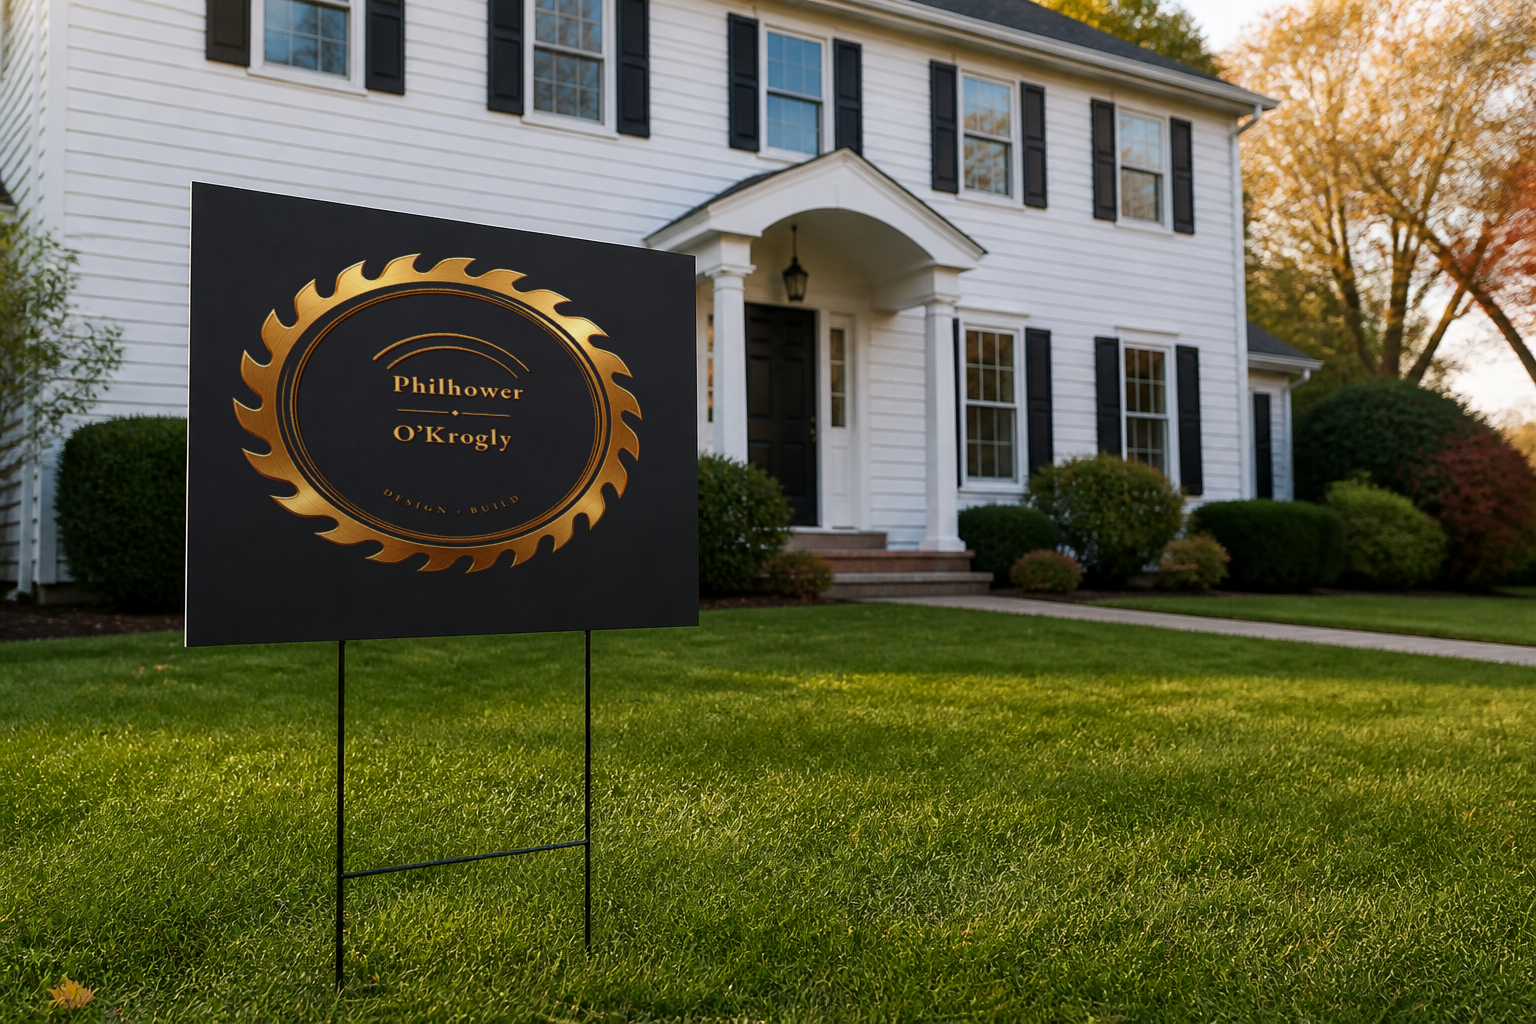
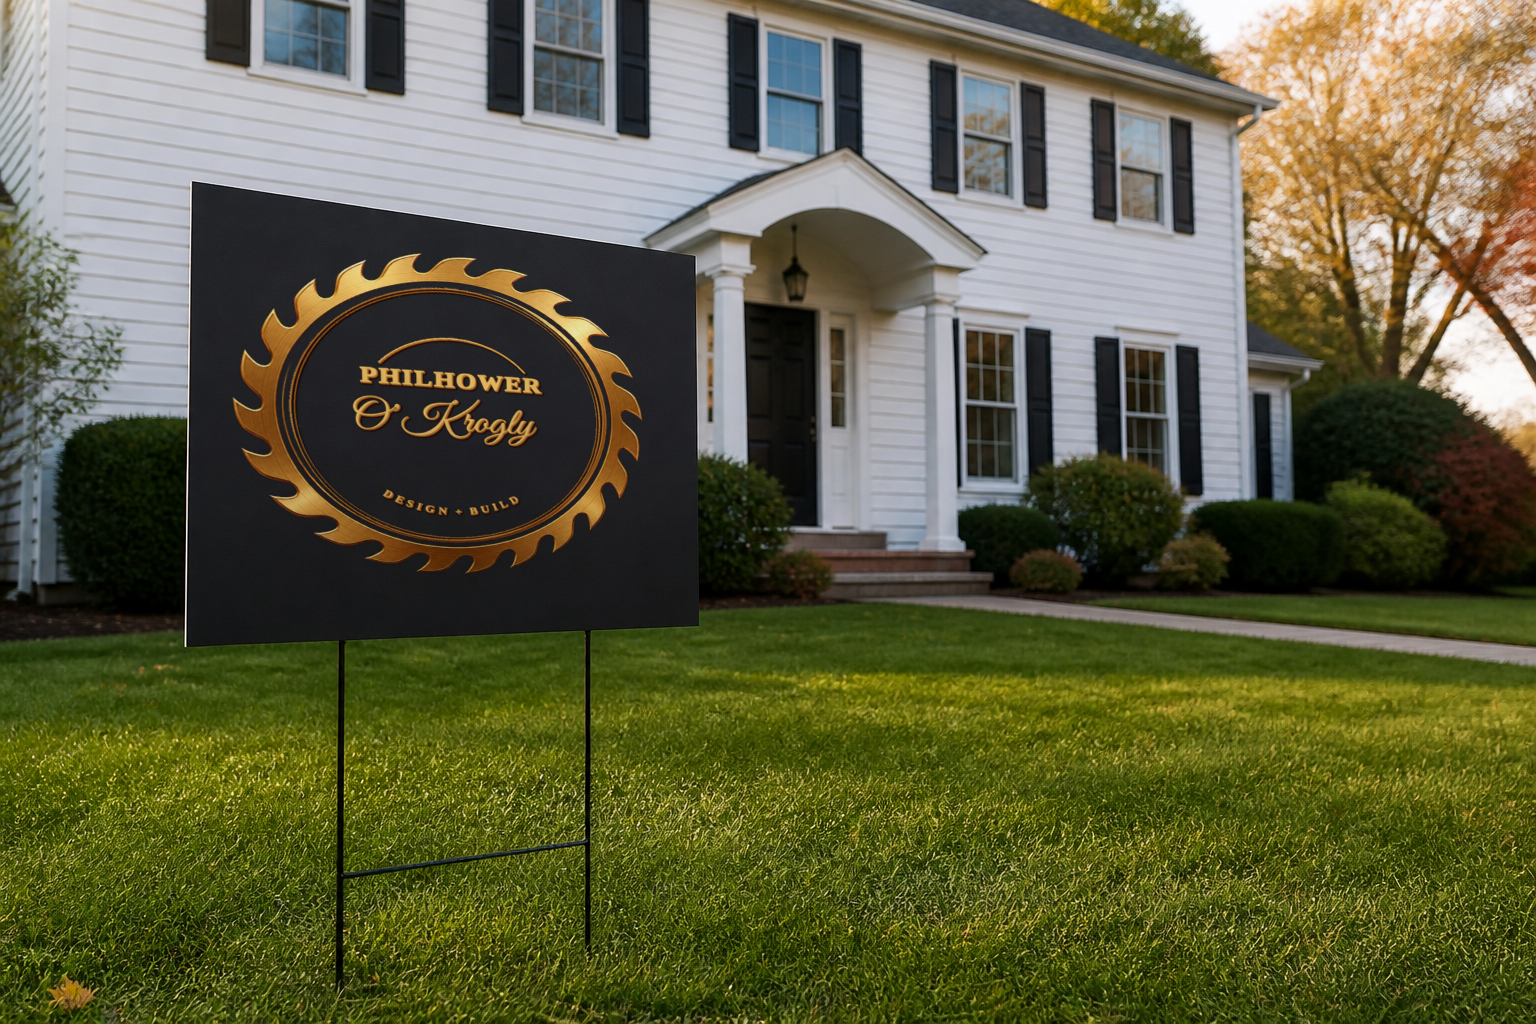
Match Philhower & O’Krogly to the Service The Hills seal.
Caps serif PHILHOWER, script O’Krogly, DESIGN + BUILD on the official
Hills blade. Theme 1.0.24 / brands-print-17.

diff --git a/dphilhower-studio-wp/preview/work/philhower-okrogly/index.html b/dphilhower-studio-wp/preview/work/philhower-okrogly/index.html
@@ -4,7 +4,7 @@
   <meta charset="utf-8">
   <meta name="viewport" content="width=device-width, initial-scale=1">
   <title>Philhower &amp; O’Krogly — D Philhower Studio</title>
-  <meta name="description" content="Philhower &amp; O’Krogly Design + Build by D Philhower Studio: old-style modern seal — Hills blade, Garamond names, DESIGN + BUILD.">
+  <meta name="description" content="Philhower &amp; O’Krogly Design + Build by D Philhower Studio: Service The Hills twin — PHILHOWER, O’Krogly script, DESIGN + BUILD.">
   <link rel="icon" href="../../img/favicon.svg" type="image/svg+xml">
   <link rel="preconnect" href="https://fonts.googleapis.com">
   <link rel="preconnect" href="https://fonts.gstatic.com" crossorigin>
@@ -31,7 +31,7 @@
       <p>Design + Build</p>
     </header>
     <div class="case-hero">
-      <img src="../../img/pok-hero.png" alt="Philhower &amp; O’Krogly old-style modern seal: Hills saw blade, Garamond names, engraved rule, DESIGN + BUILD" width="1536" height="1024">
+      <img src="../../img/pok-hero.png" alt="Philhower &amp; O’Krogly lockup matching Service The Hills: saw blade, PHILHOWER, script O’Krogly, DESIGN + BUILD" width="1536" height="1024">
     </div>
     <article class="case-body">
       <ul class="case-meta">
@@ -41,7 +41,7 @@
         <li><strong>Place</strong><br>Northern New Jersey</li>
       </ul>
       <div class="entry-content">
-        <p>Old-style, modern cut. Official Hills bronze blade, double ring, twin top arcs. Philhower and O’Krogly share one Garamond — same size, open tracking — split by a hairline and lozenge. DESIGN + BUILD on the bottom arc.</p>
+        <p>Same seal as Service The Hills: official bronze saw blade, double ring, top arc. PHILHOWER in caps serif. O’Krogly in script. DESIGN + BUILD on the bottom arc. Same metal, same hierarchy — different names.</p>
         <p>One lockup. Polo, van, yard, card, fridge. Black field so gold reads.</p>
       </div>
     </article>
@@ -56,7 +56,7 @@
         </figure>
         <figure>
           <img src="../../img/pok-print-shirt.png" alt="Black polo with the Philhower &amp; O’Krogly saw-blade lockup centered on the chest" width="1536" height="1024">
-          <figcaption><strong>Polo</strong> Center chest. Old-style modern seal — both names in Garamond.</figcaption>
+          <figcaption><strong>Polo</strong> Center chest. Same Hills blade hierarchy: PHILHOWER, O’Krogly, DESIGN + BUILD.</figcaption>
         </figure>
         <figure>
           <img src="../../img/pok-print-van.png" alt="Matte black van with the Philhower &amp; O’Krogly saw-blade lockup on the side" width="1536" height="1024">
@@ -68,7 +68,7 @@
         </figure>
         <figure>
           <img src="../../img/pok-print-card.png" alt="Black business cards with the Philhower &amp; O’Krogly saw-blade lockup" width="1536" height="1024">
-          <figcaption><strong>Cards</strong> Black stock. Blade and Garamond seal — same lockup as the shirt.</figcaption>
+          <figcaption><strong>Cards</strong> Black stock. Blade, PHILHOWER, O’Krogly, DESIGN + BUILD — same Hills hierarchy.</figcaption>
         </figure>
         <figure>
           <img src="../../img/pok-print-magnet.png" alt="Fridge magnet with the Philhower &amp; O’Krogly saw-blade lockup" width="1536" height="1024">

diff --git a/dphilhower-studio-wp/theme/dphilhower-studio/style.css b/dphilhower-studio-wp/theme/dphilhower-studio/style.css
@@ -4,7 +4,7 @@ Theme URI: https://dphilhower.com
 Author: D Philhower Studio
 Author URI: https://dphilhower.com
 Description: Custom graphic design studio theme for D Philhower Studio at dphilhower.com — portfolio, services, about, and project inquiries. Activate the theme to load demo pages and work samples.
-Version: 1.0.23
+Version: 1.0.24
 Requires at least: 6.4
 Tested up to: 6.8
 Requires PHP: 7.4

diff --git a/dphilhower-studio-wp/theme/dphilhower-studio/inc/brand-kits.php b/dphilhower-studio-wp/theme/dphilhower-studio/inc/brand-kits.php
@@ -289,7 +289,7 @@ function dps_brand_kits() {
 		'philhower-okrogly'        => array(
 			'label'  => __( 'Print system', 'dphilhower-studio' ),
 			'title'  => __( 'One lockup, five scales', 'dphilhower-studio' ),
-			'intro'  => __( 'Old-style, modern cut. Official Hills bronze blade, double ring, twin top arcs. Philhower and O’Krogly share one Garamond — same size, open tracking — split by a hairline and lozenge. DESIGN + BUILD on the bottom arc. Polo, van, yard, card, fridge — one lockup.', 'dphilhower-studio' ),
+			'intro'  => __( 'Same seal as Service The Hills: official bronze blade, double ring, top arc. Caps serif PHILHOWER, script O’Krogly, DESIGN + BUILD on the bottom arc. Polo, van, yard, card, fridge — one lockup.', 'dphilhower-studio' ),
 			'pieces' => array(
 				array(
 					'file'    => 'pok-seal-hero.png',
@@ -301,7 +301,7 @@ function dps_brand_kits() {
 					'file'    => 'pok-print-shirt.png',
 					'alt'     => __( 'Black polo with the Philhower & O’Krogly saw-blade lockup centered on the chest', 'dphilhower-studio' ),
 					'heading' => __( 'Polo', 'dphilhower-studio' ),
-					'story'   => __( 'Center chest. Old-style modern seal — both names in Garamond.', 'dphilhower-studio' ),
+					'story'   => __( 'Center chest. Same Hills blade hierarchy: PHILHOWER, O’Krogly, DESIGN + BUILD.', 'dphilhower-studio' ),
 				),
 				array(
 					'file'    => 'pok-print-van.png',
@@ -319,7 +319,7 @@ function dps_brand_kits() {
 					'file'    => 'pok-print-card.png',
 					'alt'     => __( 'Black business cards with the Philhower & O’Krogly saw-blade lockup', 'dphilhower-studio' ),
 					'heading' => __( 'Cards', 'dphilhower-studio' ),
-					'story'   => __( 'Black stock. Blade and Garamond seal — same lockup as the shirt.', 'dphilhower-studio' ),
+					'story'   => __( 'Black stock. Blade, PHILHOWER, O’Krogly, DESIGN + BUILD — same Hills hierarchy.', 'dphilhower-studio' ),
 				),
 				array(
 					'file'    => 'pok-print-magnet.png',

diff --git a/dphilhower-studio-wp/theme/dphilhower-studio/inc/setup-content.php b/dphilhower-studio-wp/theme/dphilhower-studio/inc/setup-content.php
@@ -326,7 +326,7 @@ function dps_seed_demo_content( $force = false ) {
 			'services' => 'Identity · embroidery · vehicle · signage',
 			'year'     => '2025',
 			'location' => 'Northern New Jersey',
-			'content'  => '<p>Old-style, modern cut. Official Hills bronze blade, double ring, twin top arcs. Philhower and O’Krogly share one Garamond — same size, open tracking — split by a hairline and lozenge. DESIGN + BUILD on the bottom arc.</p><p>One lockup. Polo, van, yard, card, fridge. Black field so gold reads.</p>',
+			'content'  => '<p>Same seal as Service The Hills: official bronze saw blade, double ring, top arc. PHILHOWER in caps serif. O’Krogly in script. DESIGN + BUILD on the bottom arc. Same metal, same hierarchy — different names.</p><p>One lockup. Polo, van, yard, card, fridge. Black field so gold reads.</p>',
 		),
 		array(
 			'slug'     => 'cafe-robust',
@@ -461,7 +461,7 @@ function dps_seed_demo_content( $force = false ) {
 	flush_rewrite_rules();
 
 	update_option( 'dps_demo_seeded', DPS_VERSION );
-	update_option( 'dps_images_version', 'brands-print-16' );
+	update_option( 'dps_images_version', 'brands-print-17' );
 	return true;
 }
 

diff --git a/dphilhower-studio-wp/theme/dphilhower-studio/functions.php b/dphilhower-studio-wp/theme/dphilhower-studio/functions.php
@@ -9,7 +9,7 @@ if ( ! defined( 'ABSPATH' ) ) {
 	exit;
 }
 
-define( 'DPS_VERSION', '1.0.23' );
+define( 'DPS_VERSION', '1.0.24' );
 define( 'DPS_DIR', get_template_directory() );
 define( 'DPS_URI', get_template_directory_uri() );
 
@@ -164,14 +164,14 @@ function dps_maybe_upgrade_images() {
 	if ( 'dphilhower-studio' !== get_stylesheet() ) {
 		return;
 	}
-	if ( get_option( 'dps_images_version' ) === 'brands-print-16' ) {
+	if ( get_option( 'dps_images_version' ) === 'brands-print-17' ) {
 		return;
 	}
 	if ( ! get_option( 'dps_demo_seeded' ) ) {
 		return;
 	}
 	dps_seed_demo_content( true );
-	update_option( 'dps_images_version', 'brands-print-16' );
+	update_option( 'dps_images_version', 'brands-print-17' );
 }
 
 /**
